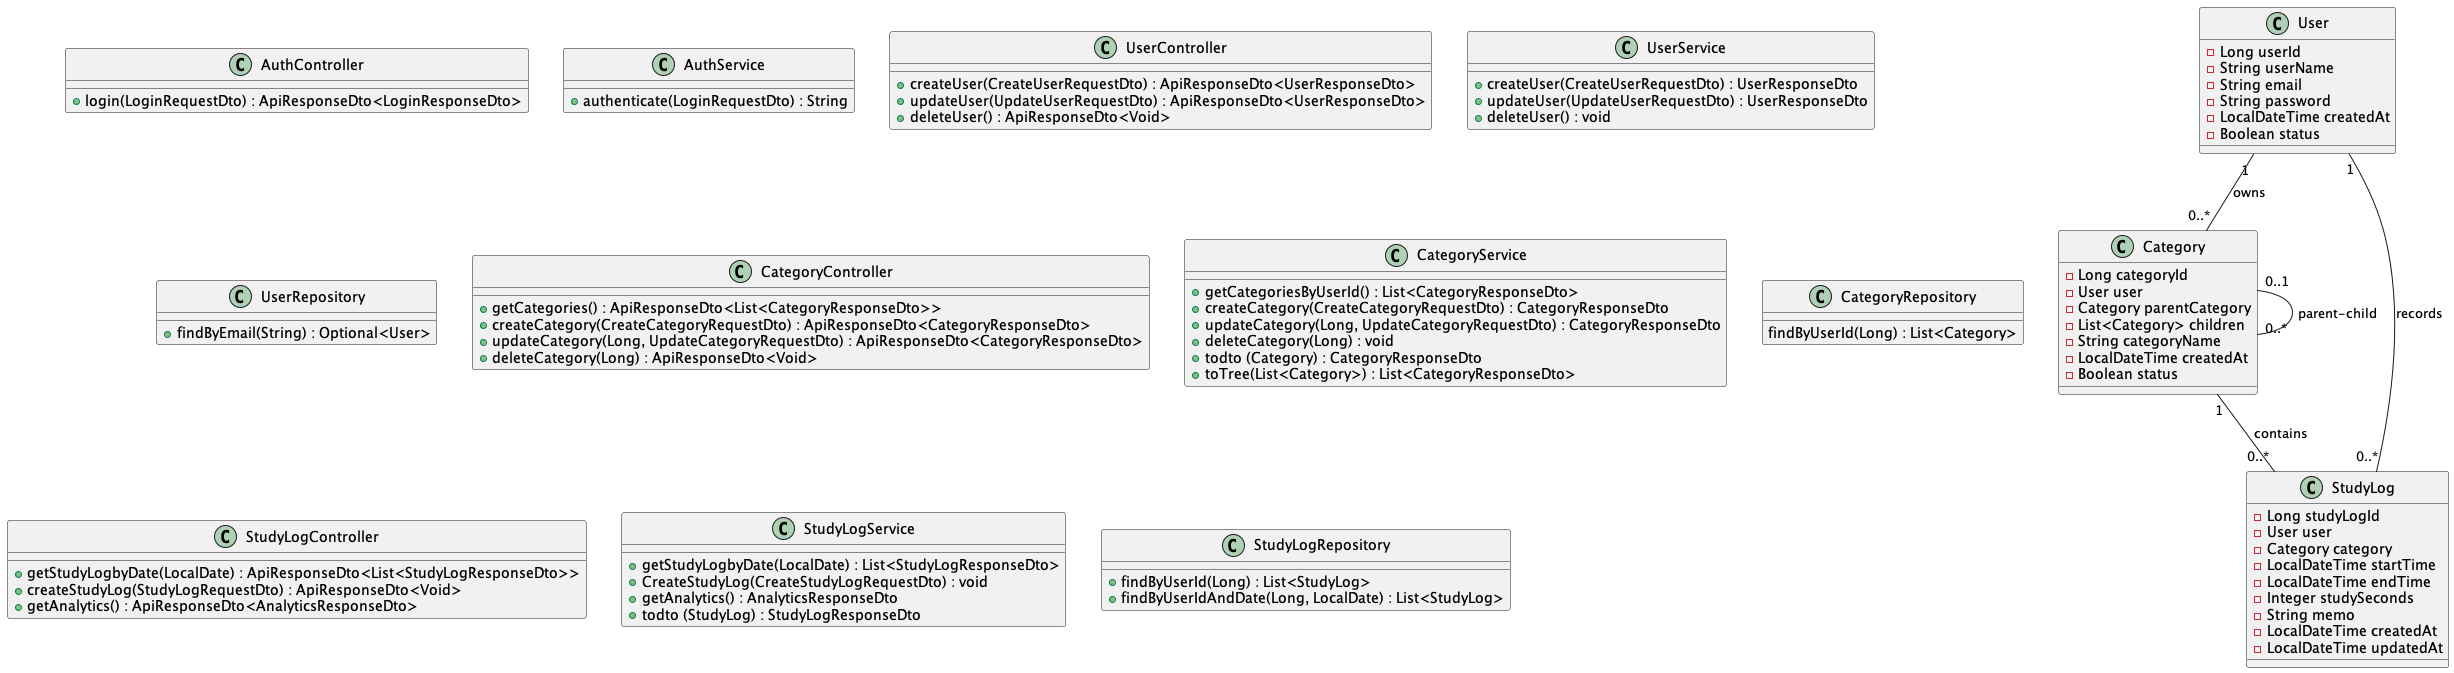
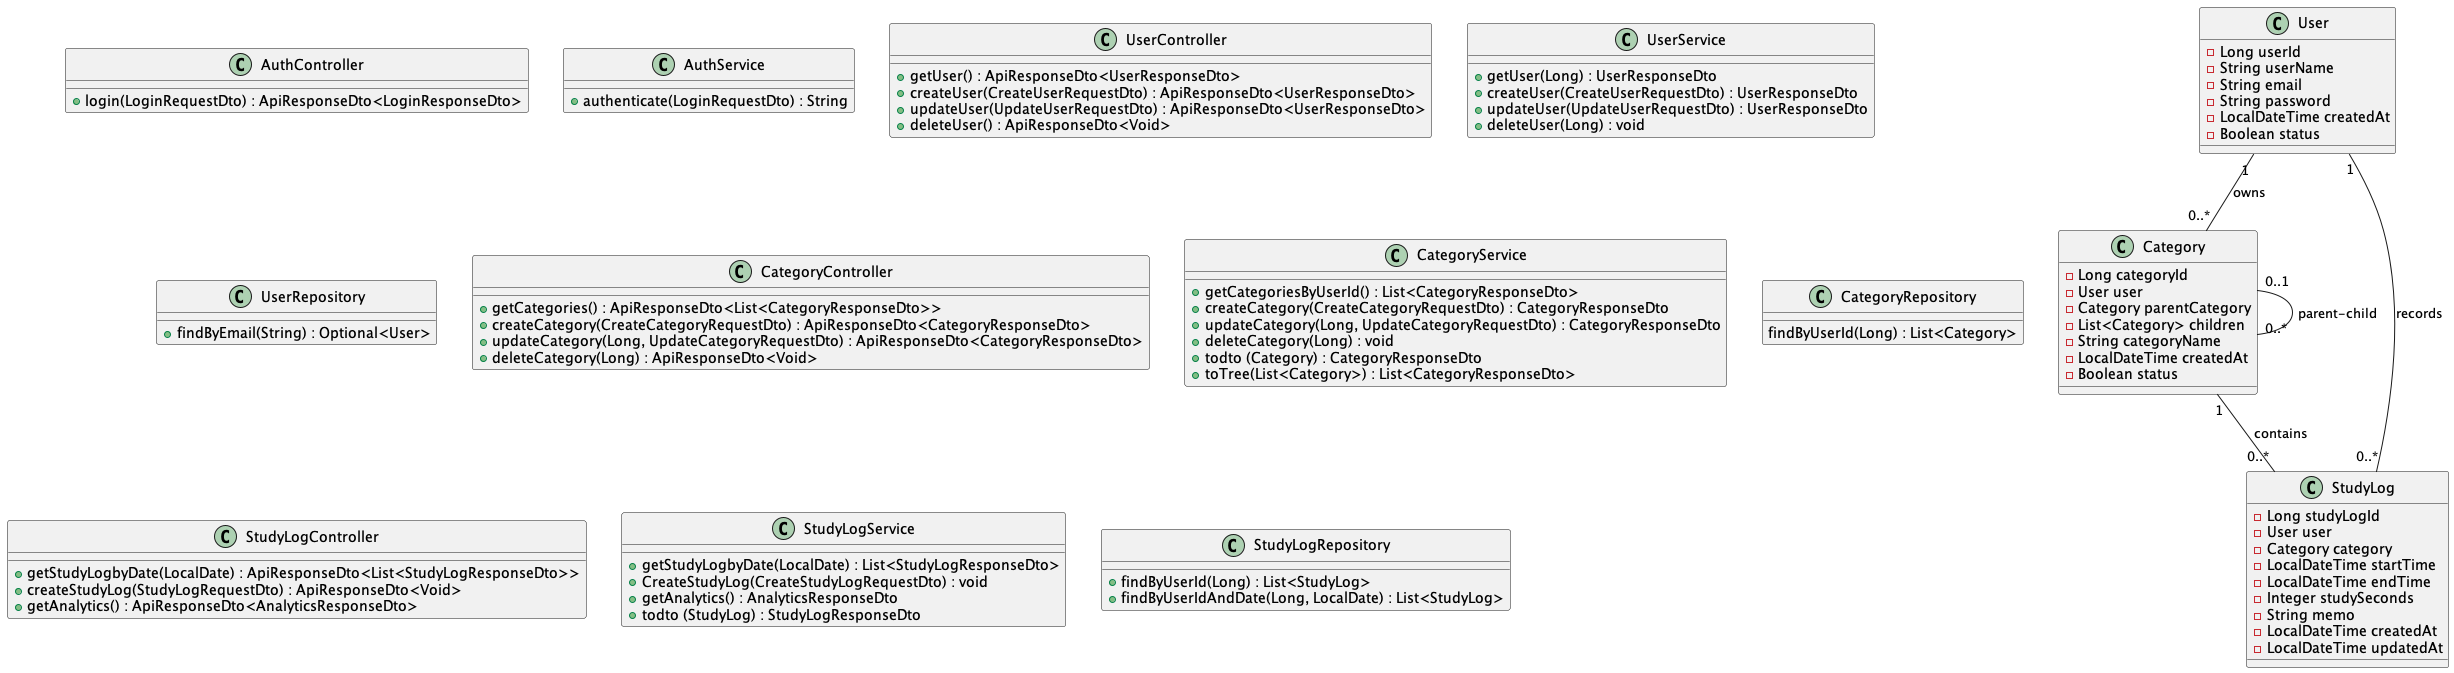
feature: getUser実装

Changed region(s): [[0.3716, 0.0312, 0.7742, 0.2184]]

diff --git a/frontend/study-manaagement-app/components/info/EditUserForm.tsx b/frontend/study-manaagement-app/components/info/EditUserForm.tsx
@@ -9,8 +9,6 @@ export default function EditUserForm() {
   const [email, setEmail] = useState();
   const [password, setPassword] = useState("********");
   return (
-
-
     <div className="mt-[70px] flex flex-col items-center space-y-10 justify-center">
       <div className="w-[680px] h-[450px] mx-auto flex items-center justify-center border border-black">
         

diff --git a/backend/study-management-app/src/main/java/com/portfolio/study_management_app/controller/user/UserController.java b/backend/study-management-app/src/main/java/com/portfolio/study_management_app/controller/user/UserController.java
@@ -1,6 +1,7 @@
 package com.portfolio.study_management_app.controller.user;
 
 import org.springframework.web.bind.annotation.DeleteMapping;
+import org.springframework.web.bind.annotation.GetMapping;
 import org.springframework.web.bind.annotation.PostMapping;
 import org.springframework.web.bind.annotation.PutMapping;
 import org.springframework.web.bind.annotation.RequestBody;
@@ -21,6 +22,13 @@ public class UserController {
   public UserController(UserService userService) {
     this.userService = userService;
   }
+
+  @GetMapping
+  public ApiResponseDto<UserResponseDto> getUser() {
+    UserResponseDto res = userService.getUser();
+    return new ApiResponseDto<>("SUCCESS", res, null);
+  }
+
   @PostMapping
   public ApiResponseDto<Void> createUser(@RequestBody CreateUserRequestDto req) {
     userService.createUser(req);

diff --git a/backend/study-management-app/src/main/java/com/portfolio/study_management_app/service/user/UserService.java b/backend/study-management-app/src/main/java/com/portfolio/study_management_app/service/user/UserService.java
@@ -23,6 +23,16 @@ public class UserService {
     this.passwordEncoder = passwordEncoder;
   }
 
+  public UserResponseDto getUser() {
+    //認証情報からuserIdを取得
+    Authentication authentication = SecurityContextHolder.getContext().getAuthentication();
+    Long userId = (Long) authentication.getPrincipal();
+
+    User user = userRepository.findById(userId).orElseThrow();
+
+    return new UserResponseDto(user.getUsername(), user.getEmail());
+  }
+
   public void createUser(CreateUserRequestDto req) {
     if(userRepository.findByEmail(req.email()) != null) {
       throw new ValidationException("既に登録されているメールアドレスです。");

diff --git a/要求仕様書.md b/要求仕様書.md
@@ -179,17 +179,18 @@ Spring Data JPAを利用してデータ操作を行う。
 | No | エンドポイント | メソッド | 認証 | 概要 |
 |----|--------------|----------|------|------|
 | 1 | /api/auth/login | POST | 不要 | ログイン |
-| 2 | /api/user | POST | 不要 | ユーザー新規登録 | 
-| 3 | /api/user | GET | 必要 | ユーザー情報取得 |
-| 4 | /api/user | PUT | 必要 | ユーザー情報更新 |
-| 5 | /api/user | DELETE | 必要 | ユーザー削除 |
-| 6 | /api/studyLog | POST | 必要 | 学習ログを保存 |
-| 7 | /api/studyLog/date/{yyyy-mm-dd} | GET | 必要 | 学習ログを取得 |
-| 8 | /api/category | GET | 必要 | 学習カテゴリを取得 |
-| 9 | /api/category | POST | 必要 | 学習カテゴリを保存 |
-| 10 | /api/category/{categoryId} | PUT | 必要 | 学習カテゴリを更新 |
-| 11 | /api/category/{categoryId} | DELETE | 必要 | 学習カテゴリを削除 |
-| 12 | /api/studyLog/analytics | GET | 必要 | 分析情報を取得 |
+| 2 | /api/user | GET | 不要 | ユーザー取得 | 
+| 3 | /api/user | POST | 不要 | ユーザー新規登録 | 
+| 4 | /api/user | GET | 必要 | ユーザー情報取得 |
+| 5 | /api/user | PUT | 必要 | ユーザー情報更新 |
+| 6 | /api/user | DELETE | 必要 | ユーザー削除 |
+| 7 | /api/studyLog | POST | 必要 | 学習ログを保存 |
+| 8 | /api/studyLog/date/{yyyy-mm-dd} | GET | 必要 | 学習ログを取得 |
+| 9 | /api/category | GET | 必要 | 学習カテゴリを取得 |
+| 10 | /api/category | POST | 必要 | 学習カテゴリを保存 |
+| 11 | /api/category/{categoryId} | PUT | 必要 | 学習カテゴリを更新 |
+| 12 | /api/category/{categoryId} | DELETE | 必要 | 学習カテゴリを削除 |
+| 13 | /api/studyLog/analytics | GET | 必要 | 分析情報を取得 |
 
 ### 7.2 リクエスト形式
 
